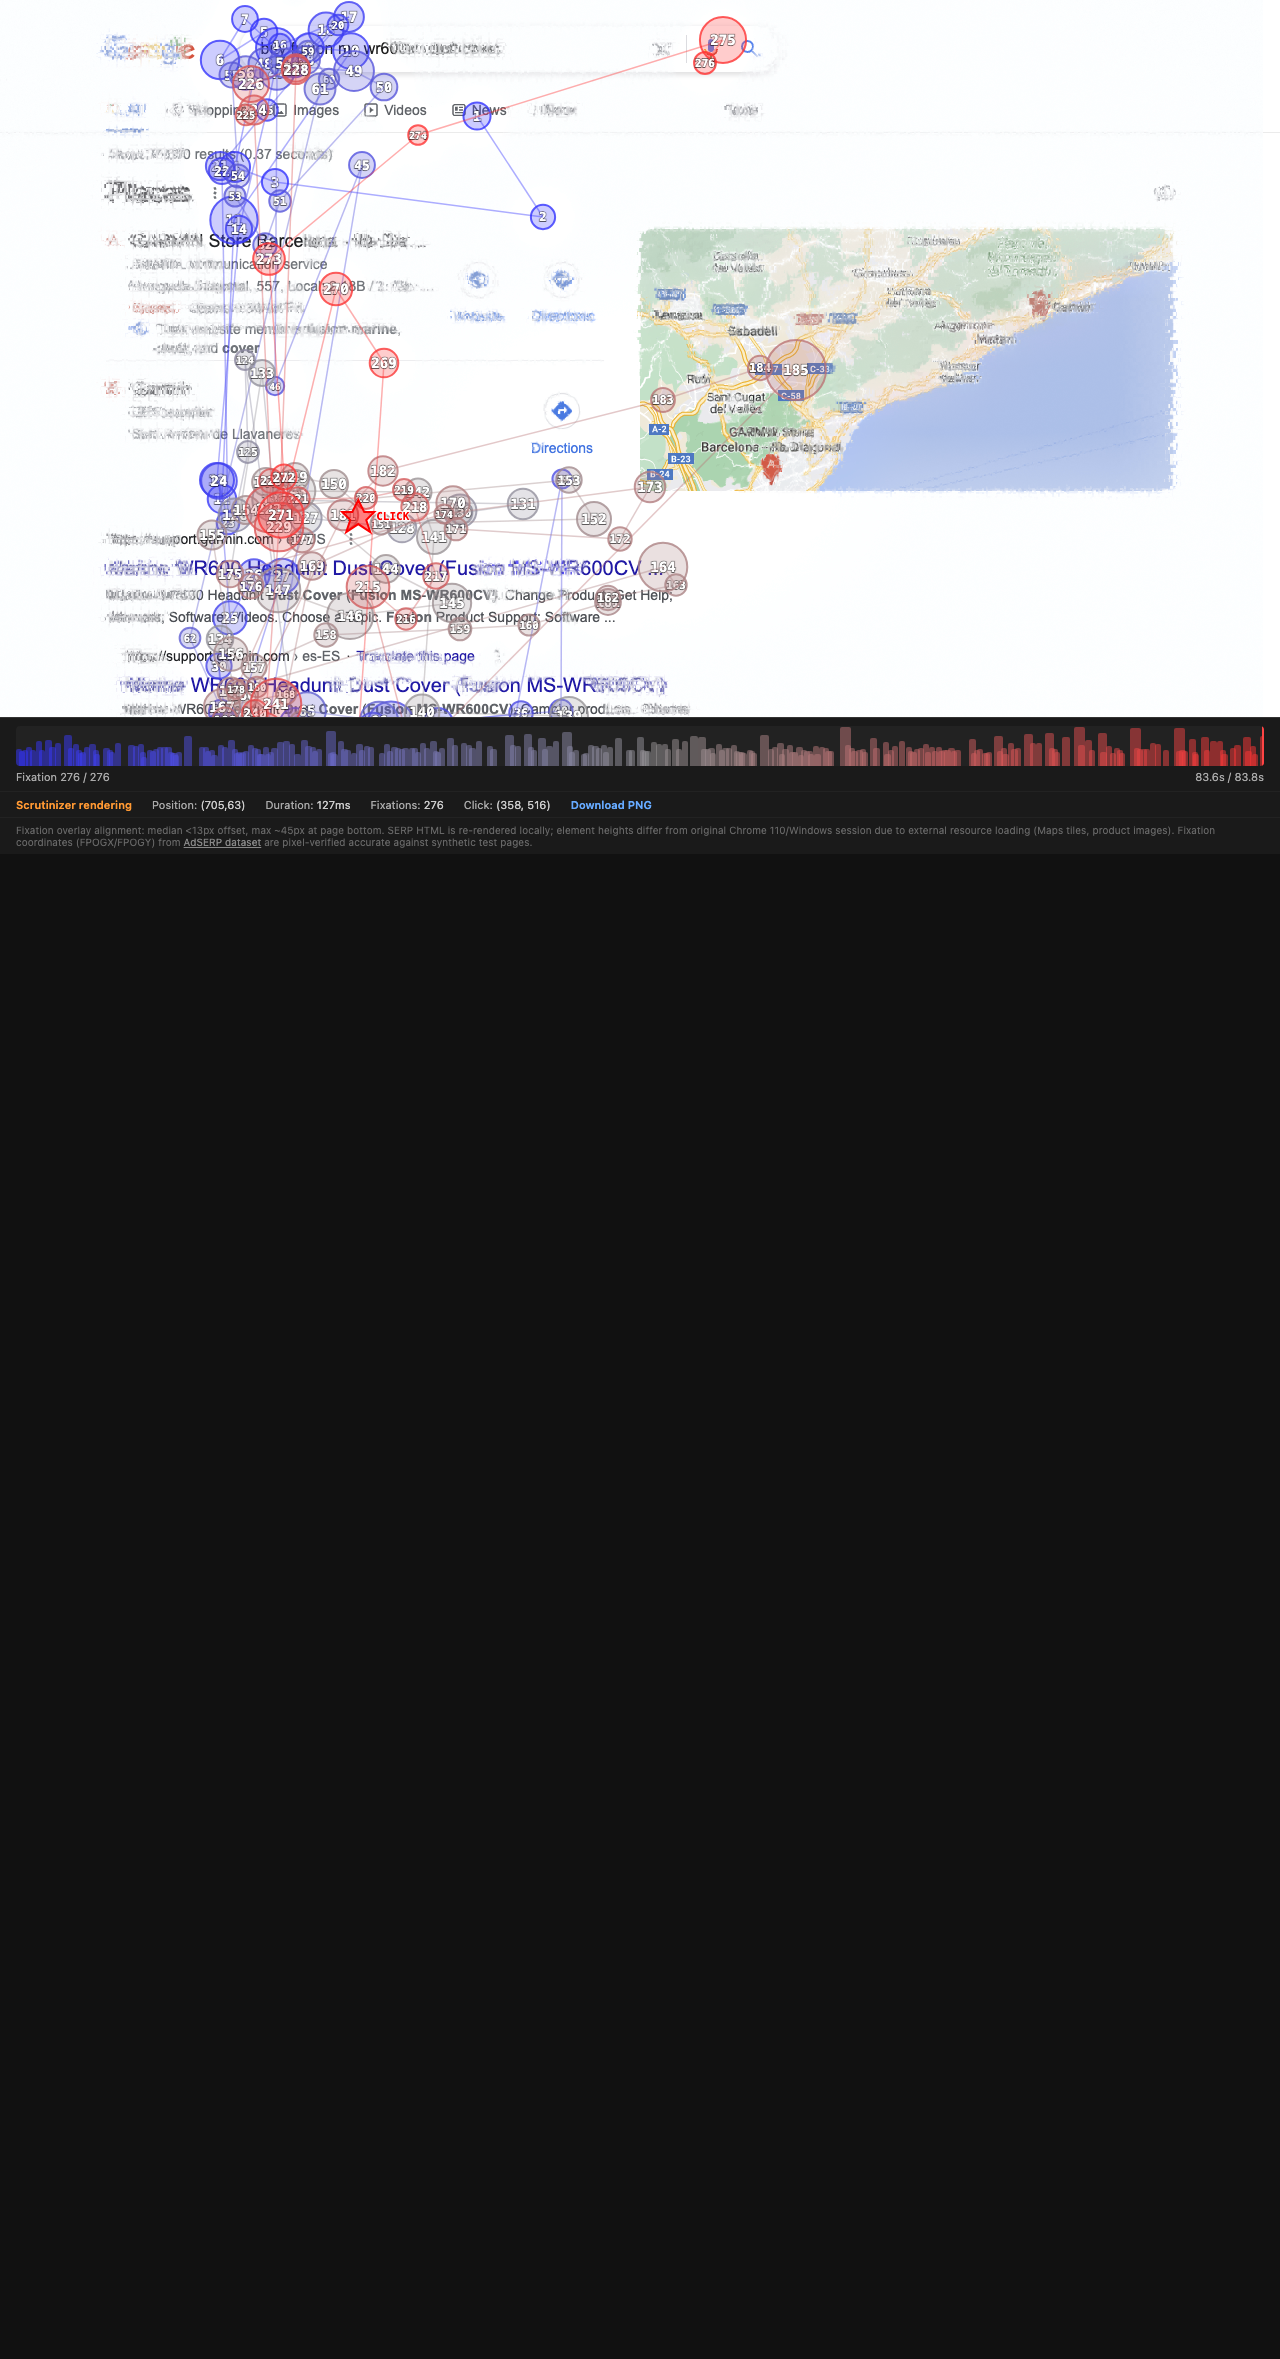
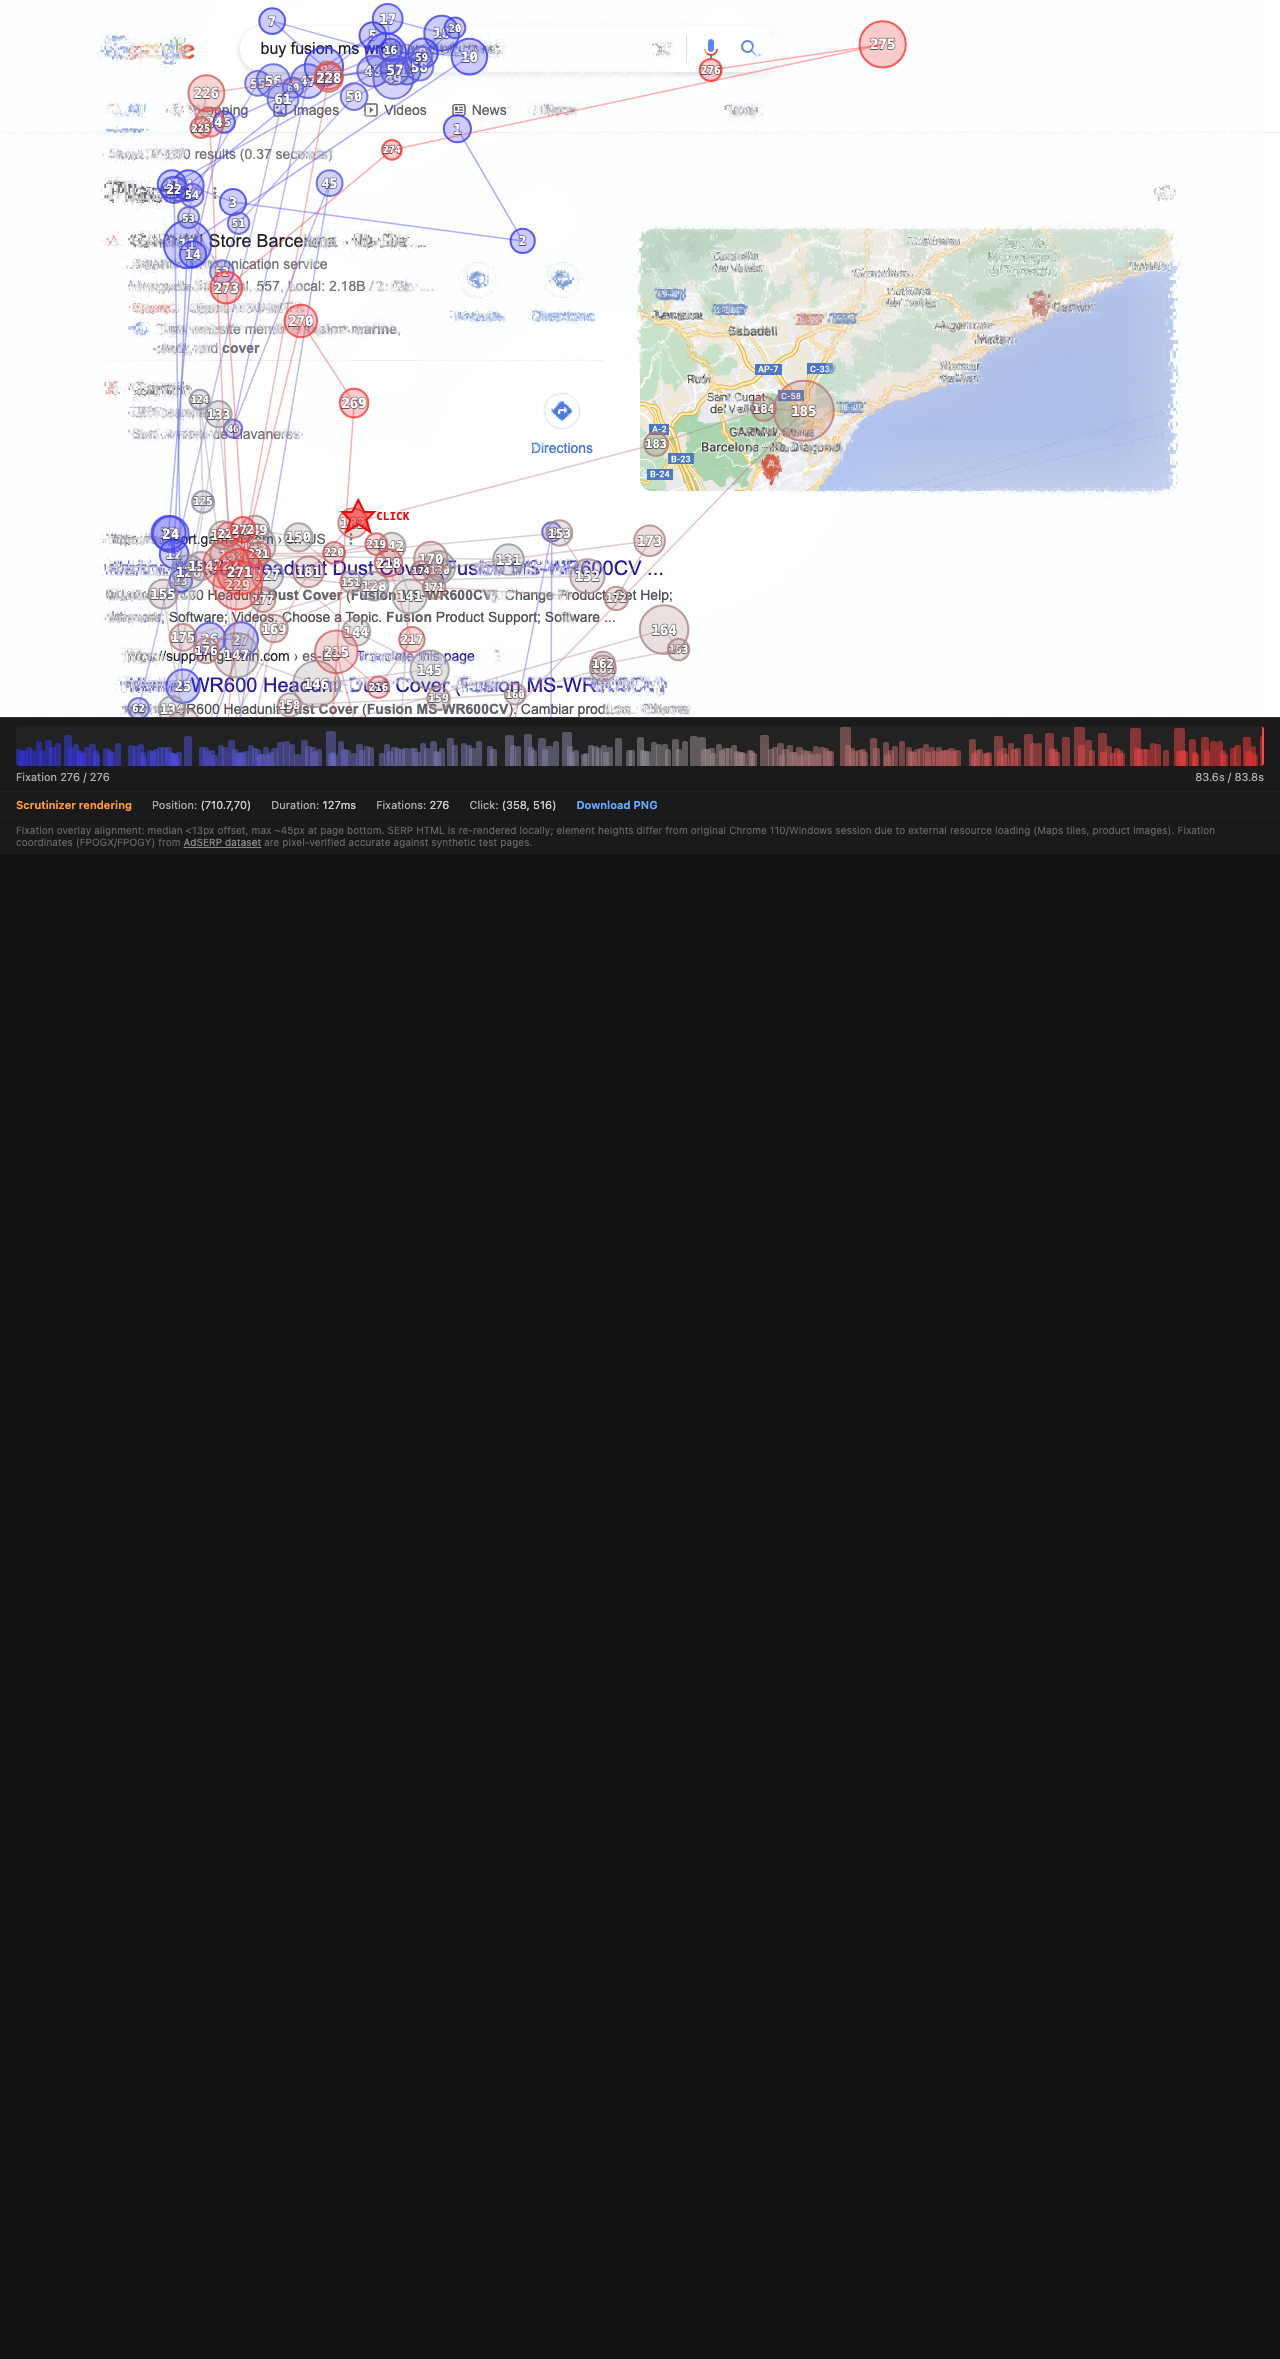
docs: updated How This Was Built with DOM anchoring and batch mode

diff --git a/index.html b/index.html
@@ -38,8 +38,11 @@ footer a { color: #888; }
   Trials below are prototypical examples of distinct search behaviors.
 </p>
 <p style="background:#332200;border:1px solid #664400;border-radius:6px;padding:8px 12px;color:#ffcc66;font-size:0.85em;margin-bottom:1em;">
-  Note: Fixation overlay alignment with the foveated render is being corrected.
-  Coordinates may not match the sharp regions exactly.
+  Positional accuracy: fixation overlay has median &lt;13px offset, max ~45px at page bottom.
+  SERP HTML is re-rendered locally; element heights differ from the original Chrome 110/Windows session
+  due to external resource loading (Maps tiles, product images). Fixation coordinates (FPOGX/FPOGY)
+  from <a href="https://github.com/kayhan-latifzadeh/AdSERP" style="color:#ffcc66;">AdSERP</a> are
+  pixel-verified accurate against synthetic test pages.
 </p>
 <p class="controls-help">
   <kbd>&larr;</kbd><kbd>&rarr;</kbd> step through fixations &middot;
@@ -187,9 +190,28 @@ sharp where they looked, degraded where they didn't.</p>
   walks each fixation through Scrutinizer's Electron-based WebGL pipeline with
   <code style="background:#222;padding:1px 4px;border-radius:2px;">TEST_VISUAL_MEMORY=-1</code> (infinite accumulation),
   then tile-captures the full page at each scroll position and stitches them</li>
-<li>The interactive overlay (fixation numbers, saccade lines, timeline scrubber)
-  is generated as self-contained HTML with the gazeplot PNG as background</li>
+<li>The <strong>batch gazeplot mode</strong> bulk-loads all fixation positions into
+  the visual memory buffer at once (instead of walking them one-by-one through
+  the render loop), then tile-captures the page — reducing capture time from
+  minutes to seconds per trial</li>
+<li>The interactive overlay is generated as self-contained HTML with the
+  gazeplot PNG as background</li>
 </ol>
+
+<p style="margin-top:0.8em;"><strong>DOM-anchored fixation positioning:</strong>
+Fixation coordinates from the eye tracker are in screen-pixel space
+(1280&times;1024), but the SERP was displayed at 1422 CSS pixels (90% display
+scaling). Rendering at a different width causes content reflow, shifting
+elements vertically. Instead of coordinate transforms, each fixation is
+<em>anchored to the DOM element it landed on</em>: during the build step,
+<a href="https://github.com/andyed/attentional-foraging/blob/main/scripts/generate-anchors.js" style="color:#6af;">generate-anchors.js</a>
+loads each SERP in Playwright at the original window width, uses
+<code style="background:#222;padding:1px 4px;border-radius:2px;">elementFromPoint</code>
+to map each fixation to a CSS selector + offset, then the build script
+re-resolves those anchors at the render width. The fixation dot lands
+on the correct element regardless of layout width. This approach was inspired
+by DOM-based event logging (Edmonds, 2003) — the same principle that anchors
+interaction events to page structure rather than screen coordinates.</p>
 
 <p style="margin-top:0.8em;"><strong>Data:</strong>
 <a href="https://doi.org/10.1145/3726302.3730325" style="color:#6af;">AdSERP</a> —